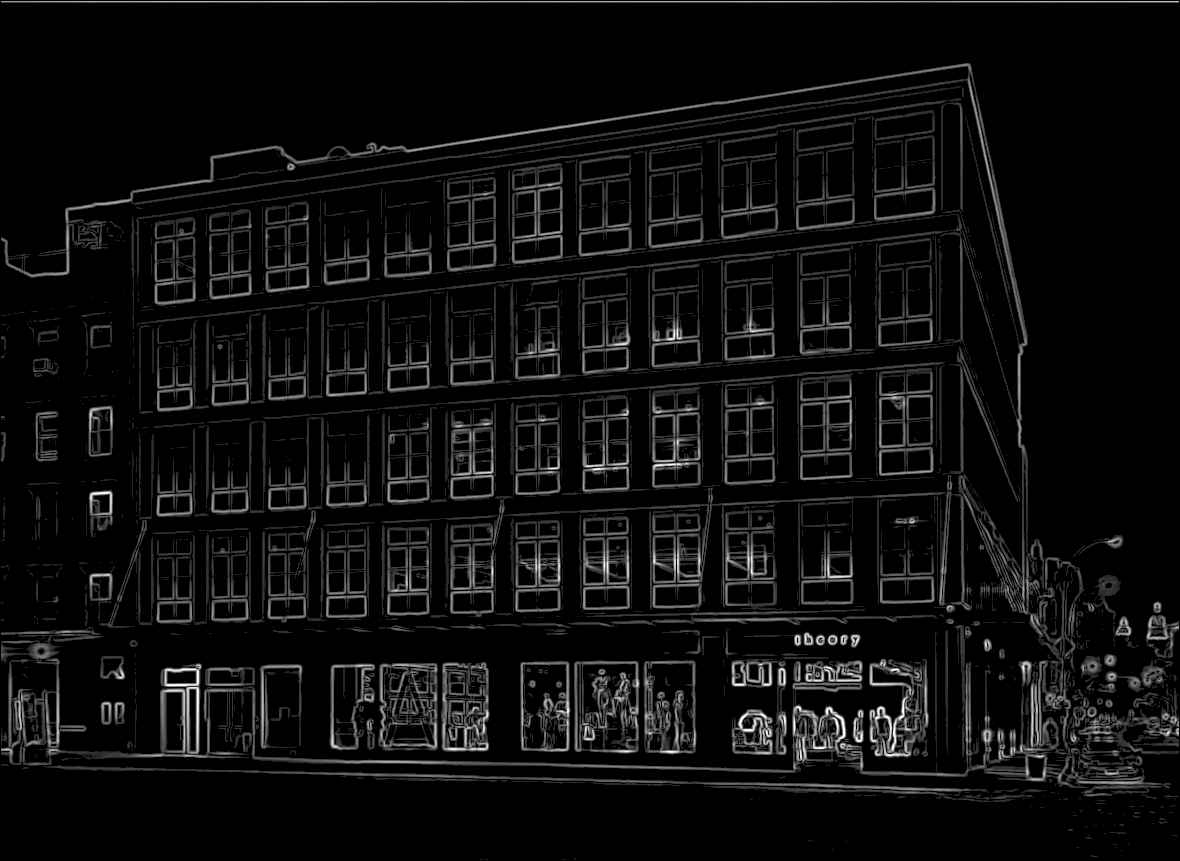
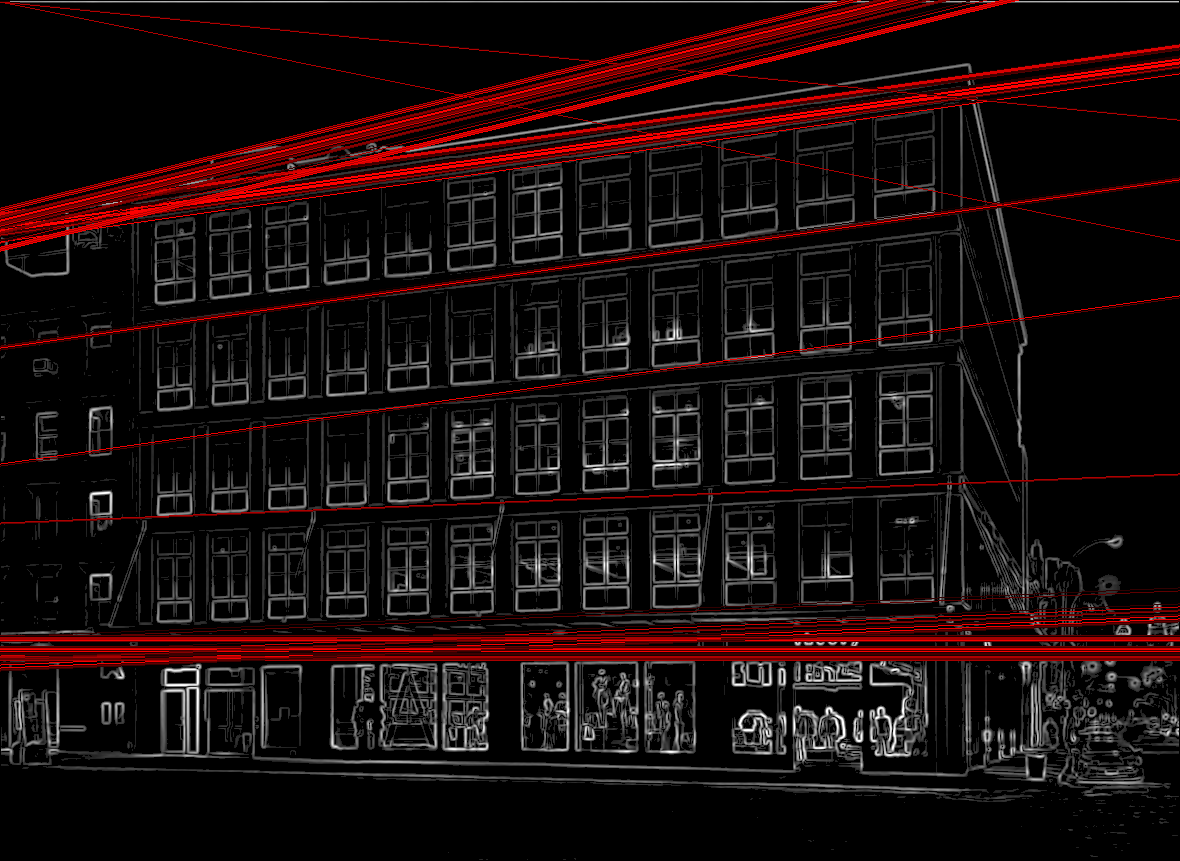
account for run lengths to better score lines

diff --git a/lib/lines.js b/lib/lines.js
@@ -6,15 +6,16 @@ module.exports = function(image) {
     for(var x = 0; x < image.width; x++) {
       var idx = (image.width * y) + x;
       
-      if(image.data[idx] /*>= image.threshold*/ == 255) {
+      if(image.data[idx] >= image.threshold) {
         //console.log('pixel', idx, x, y)
         
-        for(var radians = 0; radians <= Math.PI; radians += 0.1) {
+        for(var radians = 0; radians <= Math.PI; radians += 0.05) {
           var a = Math.tan(radians);
           var count = 0;
+          var ranges = [];
           var lastX, lastY;
           
-          //if(hitmap[a] && hitmap[a][y]) continue;
+          if(hitmap[a] && hitmap[a][y]) continue;
           
           for(var evalX = 0; evalX < image.width; evalX++) {
             var evalY = Math.floor(a * evalX) + y;
@@ -22,16 +23,35 @@ module.exports = function(image) {
             if(evalY < 0 || evalY >= image.height) continue;
             
             var idx = (image.width * evalY) + evalX;
+            
             if(image.data[idx] >= image.threshold) {
               count++;
+              
+              if(!ranges[ranges.length - 1] || ranges[ranges.length - 1].end == evalX - 1) {
+                ranges.push({
+                  start: evalX
+                });
+              }
+              else {
+                ranges[ranges.length - 1].end = evalX;
+              }
             }
             
             lastX = evalX;
             lastY = evalY;
           }
           
+          for(var i in ranges) {
+            ranges[i].size = ranges[i].end - ranges[i].start || 0;
+          }
+          
           if(!hitmap[a]) hitmap[a] = {};
-          if(!hitmap[a][y] || hitmap[a][y] < count) hitmap[a][y] = count;
+          if(!hitmap[a][y] || hitmap[a][y].score < count) {
+            hitmap[a][y] = {
+              score: count,
+              ranges: ranges
+            };
+          }
           
           //console.log('line evaluation y = %dx + %d --> %d', a, y, count);
         }
@@ -43,16 +63,25 @@ module.exports = function(image) {
   
   for(var a in hitmap) {
     for(var b in hitmap[a]) {
+      if(hitmap[a][b].ranges.length == 0) continue;
+      
+      var largest_range = hitmap[a][b].ranges.reduce(function(largest, range) {
+        if(!largest || largest.size < range.size) return range;
+        return largest;
+      });
+      
       equations.push({
         a: parseFloat(a),
         b: parseFloat(b),
-        score: hitmap[a][b]
+        score: hitmap[a][b].score,
+        ranges: hitmap[a][b].ranges,
+        largest_range: largest_range
       });
     }
   }
   
   equations = equations.sort(function(a, b) {
-    return b.score - a.score;
+    return b.largest_range.size - a.largest_range.size;
   });
   
   equations = equations.slice(0, 10);

diff --git a/index.js b/index.js
@@ -29,7 +29,8 @@ var sobel_data = filters.sobel(
   {
     width: png.width,
     height: png.height,
-    data: greyscale_data
+    data: greyscale_data,
+    threshold: 10
   },
   [
     kernels.X,
@@ -44,15 +45,20 @@ var lines_data = filters.lines(
     width: png.width,
     height: png.height,
     data: sobel_data,
-    threshold: 200
+    threshold: 50
   }
 );
 console.timeEnd('lines');
 
 
 console.time('greyscale to rgba');
-png.data = filters.greyscale.toRGBA(lines_data);
+png.data = filters.greyscale.toRGBA(sobel_data);
 console.timeEnd('greyscale to rgba');
+
+
+console.time('overlay');
+png.data = filters.overlay(png.data, lines_data, 255, 0, 0);
+console.timeEnd('overlay');
 
 
 console.time('encode');

diff --git a/lib/overlay.js b/lib/overlay.js
@@ -1,0 +1,14 @@
+module.exports = function(data, overlay, r, g, b) {
+  for(var i = 0; i < overlay.length; i++) {
+    if(overlay[i] == 0) continue;
+    
+    var idx = i * 4;
+    
+    data[idx] =     (overlay[i]     / 255) * r;
+    data[idx + 1] = (overlay[i + 1] / 255) * g;
+    data[idx + 2] = (overlay[i + 2] / 255) * b;
+    data[idx + 3] = 255;
+  }
+  
+  return data;
+}

diff --git a/lib/sobel.js b/lib/sobel.js
@@ -40,7 +40,7 @@ module.exports = function(image, kernels) {
         normalized_intensity = 255;
       }
       
-      if(normalized_intensity < 32) normalized_intensity = 0;
+      if(normalized_intensity < image.threshold) normalized_intensity = 0;
       
       var idx = (y * image.width) + x;
       edges_buf[idx] = normalized_intensity;

diff --git a/lib/index.js b/lib/index.js
@@ -7,3 +7,4 @@
 exports.sobel = require('./sobel');
 exports.greyscale = require('./greyscale');
 exports.lines = require('./lines');
+exports.overlay = require('./overlay');
